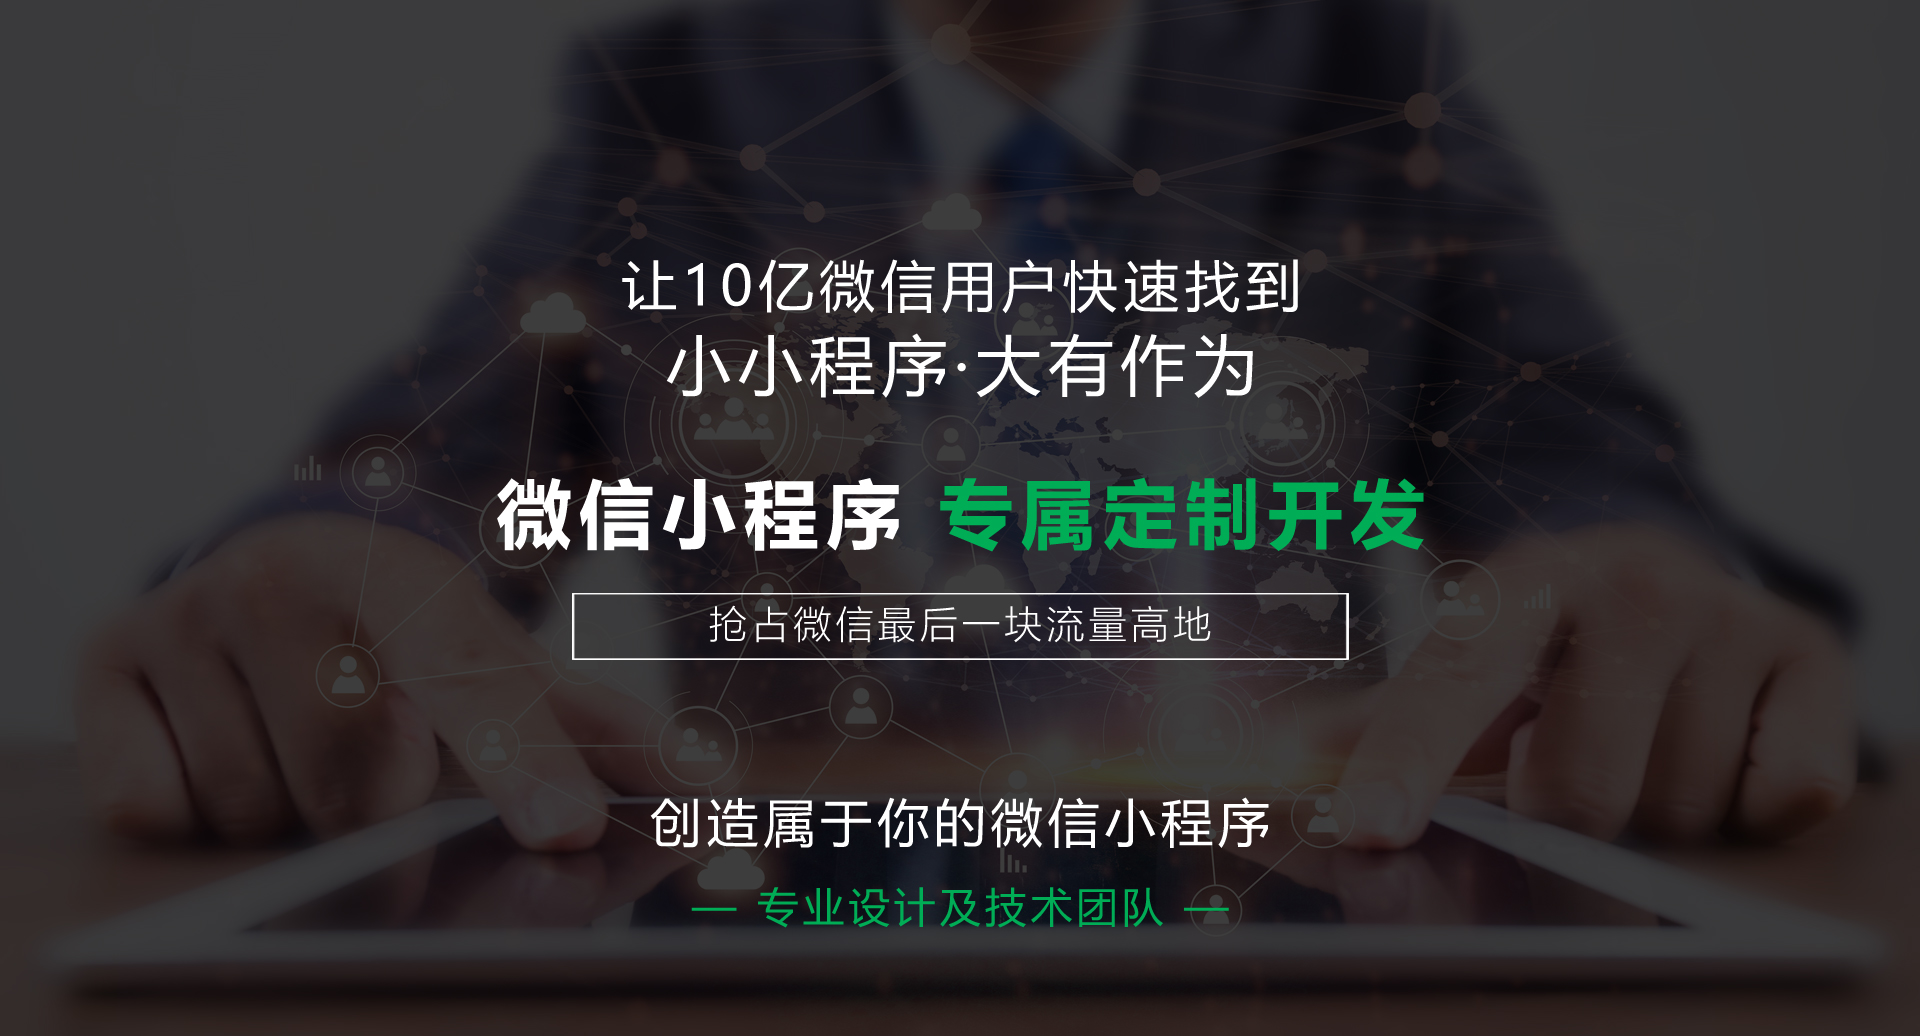
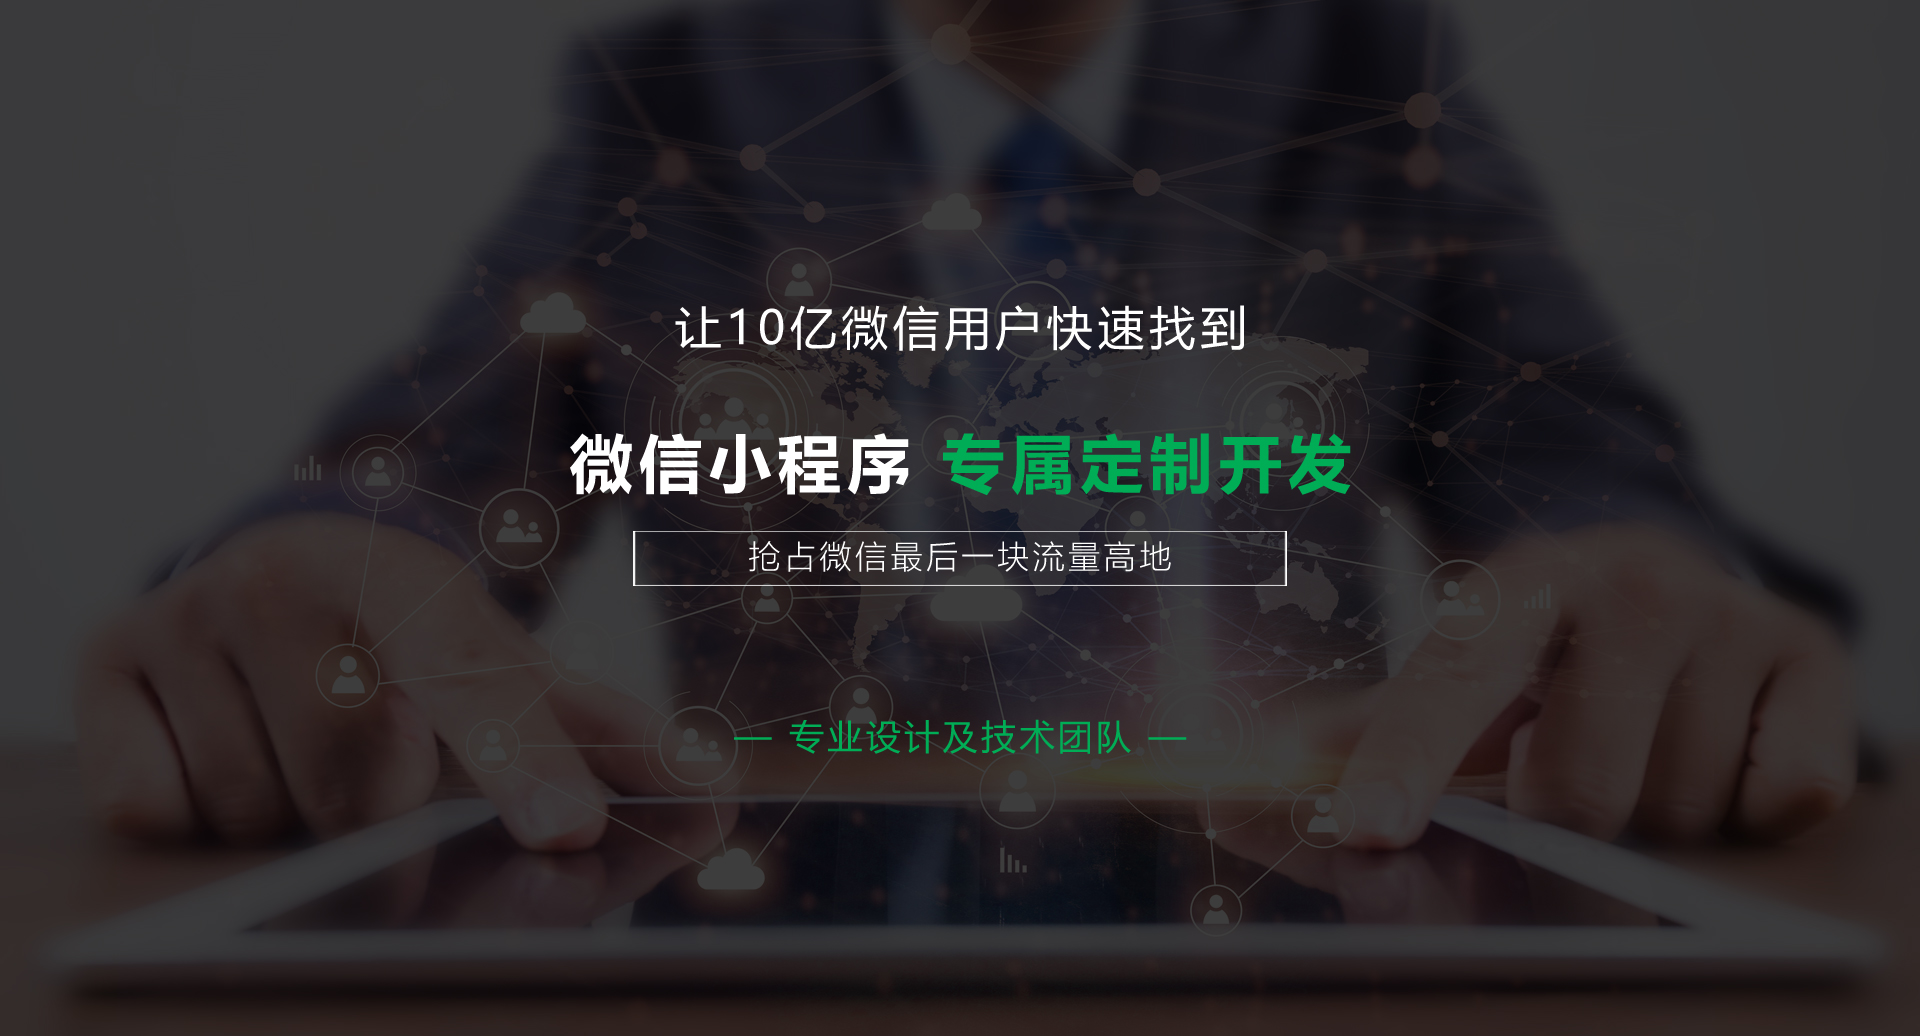
home

Changed region(s): [[0.25, 0.2471, 0.75, 0.6178], [0.3438, 0.7722, 0.6562, 0.8958], [0.4062, 0.6795, 0.5938, 0.7413]]

diff --git a/views/index.html b/views/index.html
@@ -112,26 +112,12 @@
                     <div class="swiper-wrapper" style="transition-duration: 0ms; transform: translate3d(-4200px, 0px, 0px);">
                         <div class="swiper-slide" data-swiper-slide-index="0" style="width: 700px;">
                             <div class="slide-item">
-                                <!-- <div class="cent-box">
-                            <div class="vm-cotar"> -->
-                                <!-- <div class="ani h1 english                              " style="margin-bottom: 60px; visibility: hidden;" swiper-animate-effect="fadeInDown" swiper-animate-duration="0.5s" swiper-animate-delay="0.5s" swiper-animate-style-cache="margin-bottom: 60px; visibility: hidden;"><img src="/img/pic-slide5-1.png"></div><br> -->
-                                <!-- <div class="ani h2                              " swiper-animate-effect="fadeInRight" swiper-animate-duration="0.5s" swiper-animate-delay="1s" style="visibility: hidden;" swiper-animate-style-cache="visibility: hidden;"><img src="/img/pic-slide5-2.png"></div> -->
-                                <!-- <div class="ani                              " style="margin-top: 100px; visibility: hidden;" swiper-animate-effect="fadeInUp" swiper-animate-duration="0.5s" swiper-animate-delay="1.5s" swiper-animate-style-cache="margin-top: 100px; visibility: hidden;"><img src="/img/pic-slide5-3.png"></div> -->
-                                <!-- </div>
-                        </div> -->
-                                <div class="bg-cotar">
-                                    <img src="/img/home_1.jpeg">
-                                </div>
-                            </div>
-                        </div>
-                        <div class="swiper-slide" data-swiper-slide-index="1" style="width: 700px;">
-                            <div class="slide-item">
                                 <div class="bg-cotar">
                                     <img src="/img/home_2.jpeg">
                                 </div>
                             </div>
                         </div>
-                        <div class="swiper-slide" data-swiper-slide-index="2" style="width: 700px;">
+                        <div class="swiper-slide" data-swiper-slide-index="1" style="width: 700px;">
                             <div class="slide-item">
                                 <div class="cent-box">
                                     <div class="vm-cotar" style="margin-bottom: 140px">
